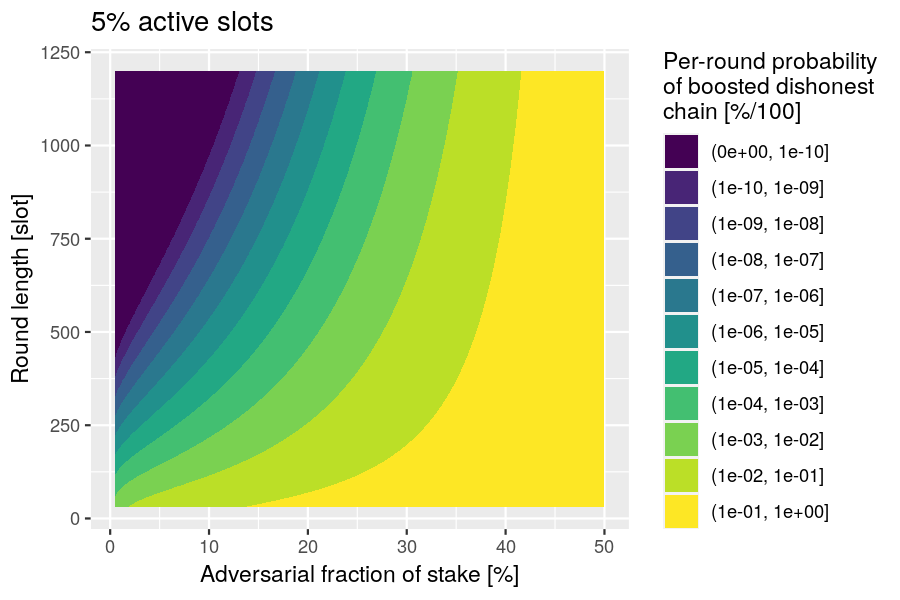
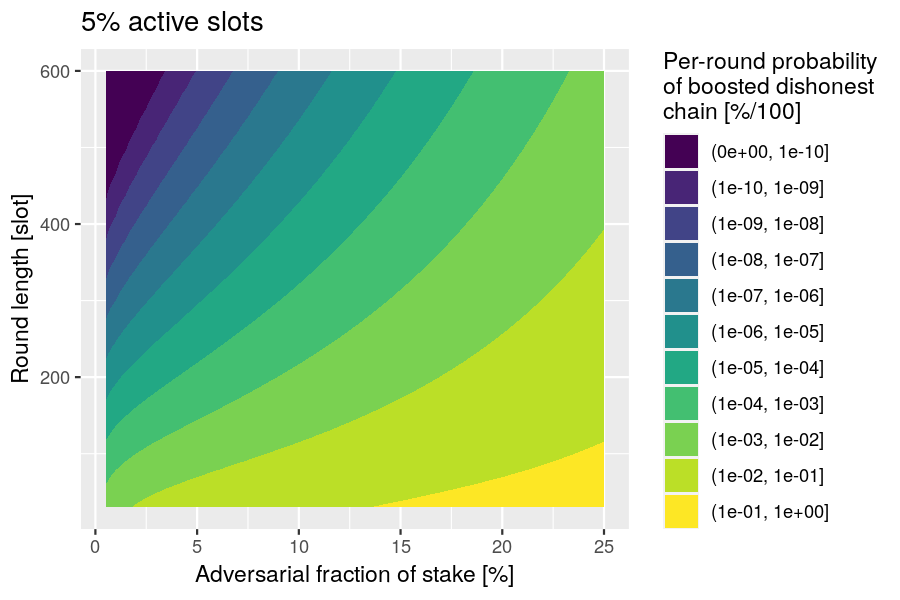
Zoomed in on figure where adversarial chain receives boost.

diff --git a/CIP-0PRS/README.lagda.md b/CIP-0PRS/README.lagda.md
@@ -1446,9 +1446,6 @@ The plot below illustrates how shorter rounds and stronger adversaries make such
 
 ![Plot of the probability of the dishonest boost as a function of the adversarial fraction of stake and the round length.](diagrams/adversarial-chain-receives-boost-variant.plot.png)
 
-> [!NOTE]
-> Redraw the diagram with it zoomed in more towards the origin.
-
 Decentralized, stake-based block production and voting systems may be subject to equivocations, where a slot leader or a voting-committee member creates more than one block or casts duplicate votes for different blocks. Protocols' no-equivocation rules ensure that only the first block or vote is acted upon by the node. In the case of Peras, an adversary does not gain power from equivocating votes unless they have near 50% or more of the stake. A scenario where an adversary sends one version to a vote to some honest nodes and a different version to the other honest nodes will not affect the outcome of voting any more than if the adversary were not to vote at all. Equivocated votes burden the nodes slightly by creating extra network traffic.
 
 Natural events or adversaries might interfere with the diffusion of votes over the network. Peras voting is not affected so long as the network diffuses at least the 75% threshold for reaching a quorum. One quarter of the votes could be lost, dishonest, or withheld. Furthermore, the Peras $L$ parameter ensures that there is plenty of time for honest blocks to diffuse and for them to be in a common prefix of the active forks before voting begins. The Peras $R$ parameter, the number of slots for which certificates (votes) are ignored once a cool-down period starts, guards against an adversary holding onto votes and then releasing them to try to revert an already-begun cool-down period.
